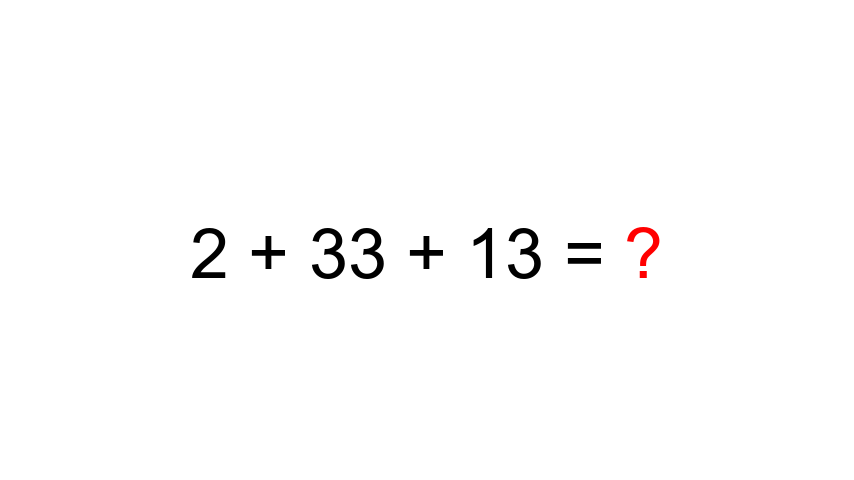
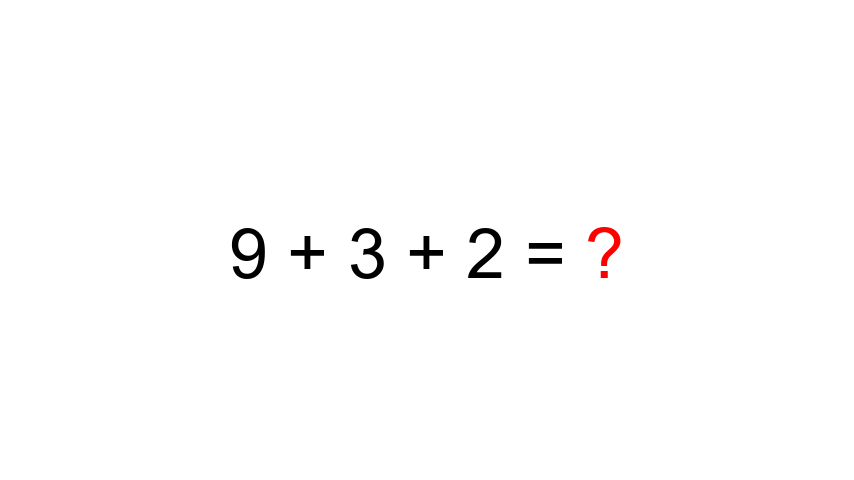
Start loading exo

Changed region(s): [[0.548, 0.4688, 0.7916, 0.5938], [0.2131, 0.4688, 0.4262, 0.5938]]

diff --git a/load_exo.py b/load_exo.py
@@ -1,17 +1,17 @@
 import json
 import random
 import lib_addition_3ch_hor
-from datetime import date, timedelta
+from datetime import date
 import os
 
 
 class ExoSchedule:
-    def __init__(self, name, age):
-        self.name = name
-        self.age = age
+    def __init__(self):
         self.exo_dir = r"C:\Users\NJAKA\Desktop\exo_itk"
         self.exo_schedule = "exo_schedule.json"
         self.all_exo = {}
+        self.load_all_exo()
+        self.update_all_exo()
 
     @staticmethod
     def get_today_weekday():
@@ -47,13 +47,32 @@ class ExoSchedule:
             if os.path.isfile(json_config_path):
                 with open(json_config_path) as json_file:
                     data = json.load(json_file)
-                    # print(data)
-                    # TODO: Need to check the data if correct
-                    self.all_exo[exo] = data
+                    try:
+                        self.all_exo[exo]["exo"] = []
+                        self.all_exo[exo]["min"] = int(data["min"])
+                        self.all_exo[exo]["max"] = int(data["max"])
+                        self.all_exo[exo]["level"] = data["level"]
+                        self.all_exo[exo]["rand"] = data["rand"]
+                        self.all_exo[exo]["type"] = data["type"]
+                        self.all_exo[exo]["case sensitive"] = data["case sensitive"]
+                        self.all_exo[exo]["comment"] = data["comment"]
+
+                        if exo == "addition_3ch_hor":
+                            for _ in range(int(data["max"])):
+                                exo_tmp = {
+                                    "image1": lib_addition_3ch_hor.get_image(),
+                                    "image2": lib_addition_3ch_hor.get_image(),
+                                    "mp3": None,
+                                    "answer": 6,
+                                    "text": "andrana"
+                                }
+                                self.all_exo[exo]["exo"].append(exo_tmp)
+                    except KeyError:
+                        self.all_exo[exo] = {}
+                        print("Error 12")
+
                 # print(json_config_path)
 
 
-p1 = ExoSchedule("John", 36)
-p1.load_all_exo()
-p1.update_all_exo()
-p1.display_all_exo()
+p1 = ExoSchedule()
+# p1.display_all_exo()

diff --git a/Mianatra2 - Copie.py b/Mianatra2 - Copie.py
@@ -110,9 +110,6 @@ class MyFrame(wx.Frame):
         self.Bind(wx.EVT_TOOL, self.OnTool1, tool1)
         self.Bind(wx.EVT_TOOL, self.OnTool2, tool2)
 
-        self.all_exo = {}
-        p1 = load_exo.ExoSchedule()
-        self.all_exo = p1.all_exo
 
         self.Show()
 
@@ -187,7 +184,14 @@ class MyFrame(wx.Frame):
             static_bitmap.Show()
         self.home_panel.Layout()
 
-    def load_image(self, img_path):
+    def on_ok_button(self, event):
+        # wx.MessageBox(self.ok_button.GetLabel(), "Info", wx.OK | wx.ICON_INFORMATION)
+        if self.ok_button.GetLabel() == "START":
+            self.ok_button.SetLabel("OK")
+            self.valiny.Show()
+            self.home_panel.Layout()
+        # Change the background image
+        img_path = os.path.join("images", "A4.png")  # Replace with the desired image path
         new_image = wx.Image(img_path, wx.BITMAP_TYPE_ANY)
         # Limit the width of the new image to 800 pixels while maintaining the aspect ratio
         if new_image.GetWidth() > 854:
@@ -199,17 +203,6 @@ class MyFrame(wx.Frame):
         self.home_panel.Refresh()
         self.SetStatusText("Background image changed.")
         self.home_panel.Layout()
-
-    def on_ok_button(self, event):
-        # wx.MessageBox(self.ok_button.GetLabel(), "Info", wx.OK | wx.ICON_INFORMATION)
-        if self.ok_button.GetLabel() == "START":
-            self.ok_button.SetLabel("OK")
-            self.valiny.Show()
-            self.home_panel.Layout()
-        # Change the background image
-        img_path = os.path.join("images", "A2.png")
-        self.load_image(img_path)
-
 
     def on_background_click(self, event):
         wx.MessageBox("Image Clicked", "Info", wx.OK | wx.ICON_INFORMATION)

diff --git a/test2.py b/test2.py
@@ -1,1 +1,83 @@
-from colorama import Fore
+"""
+altgraph==0.17
+arrow==0.16.0
+asgiref==3.2.10
+beautifulsoup4==4.9.1
+cachetools==4.1.0
+camelot-py==0.8.2
+certifi==2020.6.20
+cffi==1.14.4
+chardet==3.0.4
+click==7.1.2
+cryptography==3.2.1
+cycler==0.10.0
+diff-match-patch==20181111
+distro==1.5.0
+Django==3.0.7
+dropbox==11.0.0
+et-xmlfile==1.0.1
+fpdf==1.7.2
+future==0.18.2
+google-api-core==1.21.0
+google-api-python-client==1.12.5
+google-auth==1.18.0
+google-auth-httplib2==0.0.4
+google-auth-oauthlib==0.4.1
+googleapis-common-protos==1.52.0
+gspread==3.6.0
+html5lib==1.1
+httplib2==0.18.1
+idna==2.10
+jdcal==1.4.1
+kiwisolver==1.2.0
+lxml==4.5.1
+matplotlib==3.2.2
+numpy==1.19.0
+oauth2client==4.1.3
+oauthlib==3.1.0
+opencv-contrib-python==4.4.0.42
+opencv-python==4.4.0.42
+openpyxl==3.0.4
+pandas==1.1.4
+pdfminer==20191125
+pdfminer.six==20201018
+pefile==2019.4.18
+Pillow==7.1.2
+ply==3.11
+protobuf==3.12.2
+pyasn1==0.4.8
+pyasn1-modules==0.2.8
+pycparser==2.20
+pycryptodome==3.9.8
+PyInstaller==3.6
+PyMuPDF==1.18.4
+pyparsing==2.4.7
+PyPDF2==1.26.0
+pytesseract==0.3.6
+python-barcode==0.11.0
+python-dateutil==2.8.1
+python-docx==0.8.10
+pytz==2020.1
+pywin32-ctypes==0.2.0
+reportlab==3.5.44
+requests==2.24.0
+requests-oauthlib==1.3.0
+rsa==4.6
+selenium==3.141.0
+six==1.15.0
+sortedcontainers==2.3.0
+soupsieve==2.0.1
+sqlparse==0.3.1
+stone==3.2.1
+tabula-py==2.2.0
+times==0.7
+uritemplate==3.0.1
+urllib3==1.25.9
+webencodings==0.5.1
+wxPython==4.1.0
+
+
+pip freeze > requirements.txt
+pip install -r requirements.txt
+
+"""

diff --git a/lib_addition_3ch_hor.py b/lib_addition_3ch_hor.py
@@ -2,7 +2,7 @@ from PIL import Image, ImageDraw, ImageFont
 import random
 
 
-def addition_3ch_hor(level=0):
+def get_image(level=0):
     a = random.randint(0, 9 + level * 10)
     b = random.randint(0, 9 + level * 10)
     c = random.randint(0, 9 + level * 10)
@@ -47,6 +47,9 @@ def addition_3ch_hor(level=0):
 
     pil_image.save("njk.png")
 
+    # print(type(image_data))
+
     return image_data
 
-addition_3ch_hor(5)
+
+get_image(5)
